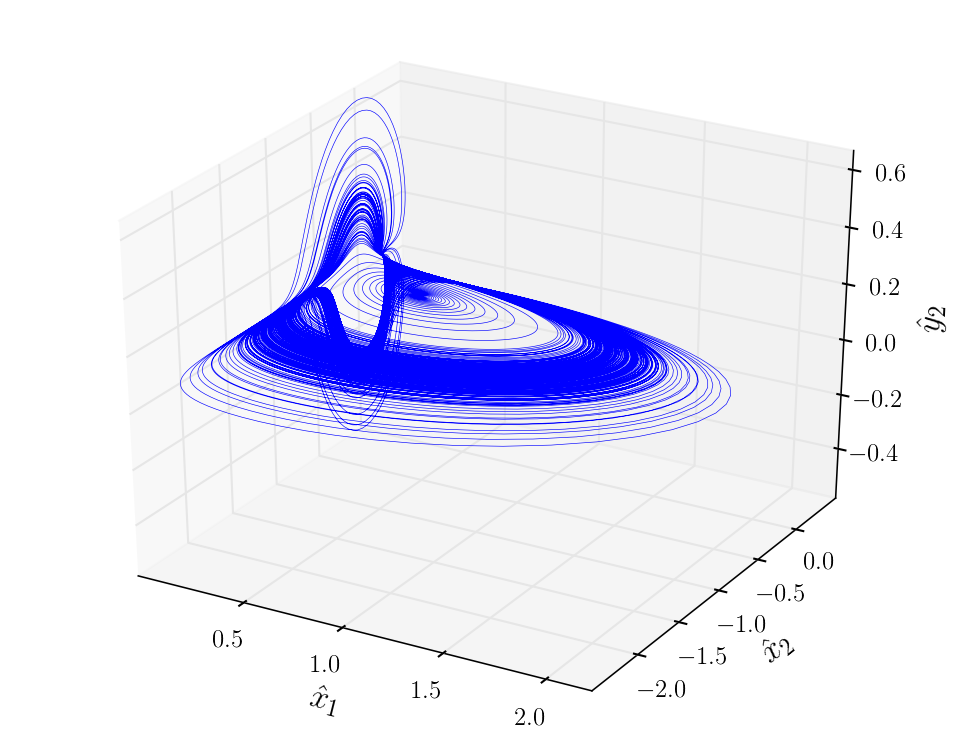
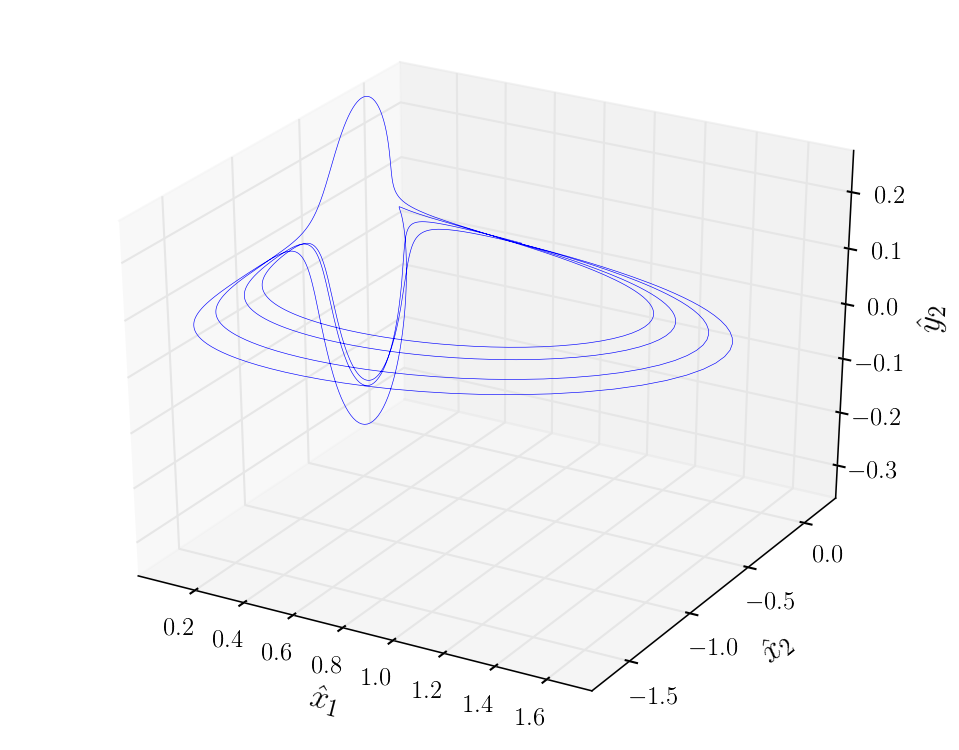
code n rpo

diff --git a/blog/burak/PorterKnobloch/python/rpo.py b/blog/burak/PorterKnobloch/python/rpo.py
@@ -11,7 +11,7 @@
 """
 
 import numpy as np
-from scipy.optimize import fsolve
+from scipy.optimize import fsolve, newton_krylov, anderson
 
 import numpy as np
 
@@ -22,7 +22,73 @@ import onslicesolver
 #Load parameters:
 p = np.loadtxt('data/parameters.dat')
 
-def rpo(xt):
+def rpo(x, Tapproximate):
+	print "x"
+	print x
+	abserr = 1.0e-14
+	relerr = 1.0e-12
+	starttime = Tapproximate*0.9
+	stoptime = Tapproximate*1.1
+	#print "starttime = ", starttime
+	#print "stoptime = ", stoptime
+	#numpoints = int(stoptime/0.0001 + 1.0)
+	numpoints1 = int(starttime/0.01 + 1.0)
+	numpoints = int(1e4)
+	#print "numpoints:"
+	#print numpoints
+	#numpoints = 2
+	#xphi0=[x[0], x[1], x[2], x[3], 0]
+	xphi0=[x[0], 0, x[1], x[2], 0]
+	
+	t1=[starttime * float(i) / (numpoints1 - 1) for i in range(numpoints1)]
+	xsol1 = onslicesolver.integrate(xphi0, p, t1, abserror=abserr, relerror=relerr)
+	xphi1 = xsol1[len(xsol1)-1,:]
+	
+	# Create the time samples for the output of the ODE solver:
+	#t = [stoptime * float(i) / (numpoints - 1) for i in range(numpoints)]
+	#t = np.append([0], np.linspace(starttime, stoptime, numpoints))
+	
+	t = [(stoptime-starttime) * float(i) / (numpoints - 1) for i in range(numpoints)]
+	#xsol = onslicesolver.integrate(xphi0, p, t, abserror=abserr, relerror=relerr)
+	xsol = onslicesolver.integrate(xphi1, p, t, abserror=abserr, relerror=relerr)
+	xsol3d = np.concatenate((np.array([xsol[:,0]]).T, xsol[:,2:4]), axis=1)
+	
+	#diff = xsol[int(numpoints/2):len(xsol),0:4] - x
+	#diff = xsol3d[int(numpoints/2):len(xsol),0:3] - x
+	diff = xsol3d[0:len(xsol3d),0:3] - x
+	
+	diff = np.linalg.norm(diff, axis=1)
+	
+	#imin = np.argmin(diff)+int(numpoints/2)
+	#imin = np.argmin(diff)+1
+	imin = np.argmin(diff)
+	
+	print "tmin"
+	print t[imin]+starttime
+	
+	
+	
+	#xf = [xsol[imin, 0], 
+		  #xsol[imin, 1], 
+		  #xsol[imin, 2], 
+		  #xsol[imin, 3]] 
+	xf = [xsol3d[imin, 0], 
+		  xsol3d[imin, 1], 
+		  xsol3d[imin, 2]] 
+	
+	print "xf"
+	print xf
+	
+	return xf - x
+	
+def findrpo(x0, Tapproximate):
+	rpos = fsolve(rpo, x0, args=(Tapproximate,))
+	return rpos
+	
+def rpot(xt):
+	'''
+	not for use, under development
+	'''
 	#print "xt"
 	#print xt
 	abserr = 1.0e-14
@@ -71,10 +137,29 @@ def rpo(xt):
 	
 	return xf - xt
 
-def findrpo(xt0):
-	rpos = fsolve(rpo, xt0)
+def findrpoT(xt0):
+	'not ready for use'
+	rpos = fsolve(rpot, xt0)
 	return rpos
 
+def findrpoNK(x0, Tapproximate):
+	
+	def rpot(x):
+		return rpo(x, Tapproximate)
+		
+	
+	rpos = newton_krylov(rpot, x0)
+	return rpos
+
+def findrpoA(x0, Tapproximate):
+	
+	def rpot(x):
+		return rpo(x, Tapproximate)
+		
+	
+	rpos = anderson(rpot, x0)
+	return rpos
+	
 if __name__ == "__main__":
 
 	#candidate:
@@ -87,9 +172,20 @@ if __name__ == "__main__":
 	
 	xt0 = np.array([x10, y10, x20, y20, t0], float)
 	
-	#xt0 = np.array([4.551491852618429479e-01, 0.000000000000000000e+00, 1.398837906790846852e-01, 4.074262645591256171e-03, 1.096855715200001669e+01], float)
-	xt0 = np.array([4.551491852618429479e-01, 1.398837906790846852e-01, 4.074262645591256171e-03, 1.096855715200001669e+01], float)
+	xt0 = np.array([4.551491852618429479e-01, 0.000000000000000000e+00, 1.398837906790846852e-01, 4.074262645591256171e-03, 1.096855715200001669e+01], float)
+	xt0 = np.array([4.525769625920411654e-01, 0.000000000000000000e+00, 5.074968050853578827e-02, 3.193047332800166838e-02, 3.650669934999996258e+00], float)
+	xt03d = np.array([4.525769625920411654e-01, 5.074968050853578827e-02, 3.193047332800166838e-02, 3.650669934999996258e+00], float)
+	xt03d = np.array([4.537403786922851179e-01, 9.106503114702829693e-02, 2.080252458763354878e-02, 2.204607994399998461e+01], float)
+	xt03d = np.array([4.533343012015041973e-01, 7.699340499040213670e-02, 2.494053433095596434e-02, 7.347242386999937480e+00], float)
+	xt03d = np.array([4.551491852618429479e-01, 1.398837906790846852e-01, 4.074262645591256171e-03, 1.096855715200001669e+01], float)
+	#xt03d = np.array([4.535000042007177878e-01, 8.273543874233757478e-02, 2.328624944931542706e-02, 2.588854215399999248e+01], float)
 	
-	rpos = findrpo(xt0)
+	#rpos = findrpo(xt0[0:4], xt0[4]) # 4D
+	rpos = findrpo(xt03d[0:3], xt03d[3]) # 3D Newton
+	#rpos = findrpoNK(xt03d[0:3], xt03d[3]) # 3D Newton - Krylov
+	#rpos = findrpoA(xt03d[0:3], xt03d[3]) # 3D Anderson
 	
+	print "rpo at"
 	print rpos
+	print "fval:"
+	print rpo(rpos, xt03d[3])

diff --git a/blog/burak/PorterKnobloch/python/psectandretmap.py b/blog/burak/PorterKnobloch/python/psectandretmap.py
@@ -191,7 +191,7 @@ def psrelproj2xhat(pxrel, pyrel):
 
 
 #Number of RPOs to look for:
-nrpo = 10;
+nrpo = 50;
 nretmap = 1;
 
 #Found PROs:
@@ -246,7 +246,7 @@ for i in range(nrpo):
 	rpocandidatesxt[i,:] = rpoxhatt 
 
 #rposxt = np.zeros([nrpo, 5]) 
-rposxt = np.zeros([nrpo, 4]) 
+rpos3D = np.zeros([nrpo, 3]) 
 
 np.savetxt('data/rpocandidates.dat', rpocandidatesxt)
 
@@ -255,15 +255,17 @@ for i in range(nrpo):
 							   rpocandidatesxt[i,2],
 							   rpocandidatesxt[i,3],
 							   rpocandidatesxt[i,4]])
-	#rposxt[i,:] = rpo.findrpo(rpocandidatesxt[i,:])
-	rposxt[i,:] = rpo.findrpo(rpocandidate3D)
+	#rposxt[i,:] = rpo.findrpo(rpocandidatesxt[i,0:4], rpocandidatesxt[i,4])
+	rpos3D[i,:] = rpo.findrpo(rpocandidate3D[0:3], rpocandidate3D[3])
+	print rpos3D
+	
+	#np.savetxt('data/rpo.dat', rposxt)
 
-	np.savetxt('data/rpo.dat', rposxt)
-
+np.savetxt('data/rpo3D.dat', rpos3D)
 #Plotting:
 
 lw = 1.5
-
+'''
 #Plot Poincare section:
 figure(1, figsize=(8, 8))
 
@@ -311,3 +313,4 @@ savefig('image/retmaponslice.png', bbox_inches='tight', dpi=100)
 
 plt.tight_layout()
 plt.show()
+'''

diff --git a/blog/burak/PorterKnobloch/python/onslicesolver.py b/blog/burak/PorterKnobloch/python/onslicesolver.py
@@ -86,10 +86,10 @@ if __name__ == "__main__":
 	#y20=3.09876107e-02
 	
 	#RPO2:
-	#x10= 4.114951403926160878e-01      
-	#y10=0
-	#x20=1.426558994407197967e-01
-	#y20=1.664861048222781572e-03
+	x10= 5.890763705285380070e-01  
+	y10=0
+	x20= 4.306969121573418768e-02
+	y20=3.269608838458908096e-02
    
 
 	#Xi
@@ -101,9 +101,10 @@ if __name__ == "__main__":
 	# ODE solver parameters
 	abserr = 1.0e-14
 	relerr = 1.0e-12
-	stoptime = 1.108393279812984034e+01
-	stoptime = 1000
-	numpoints = 100000+1
+	#stoptime = 1000
+	stoptime = 14.6542590455
+	#numpoints = 100000+1
+	numpoints = 1466
 	
 	# Create the time samples for the output of the ODE solver:
 	t = [stoptime * float(i) / (numpoints - 1) for i in range(numpoints)]
